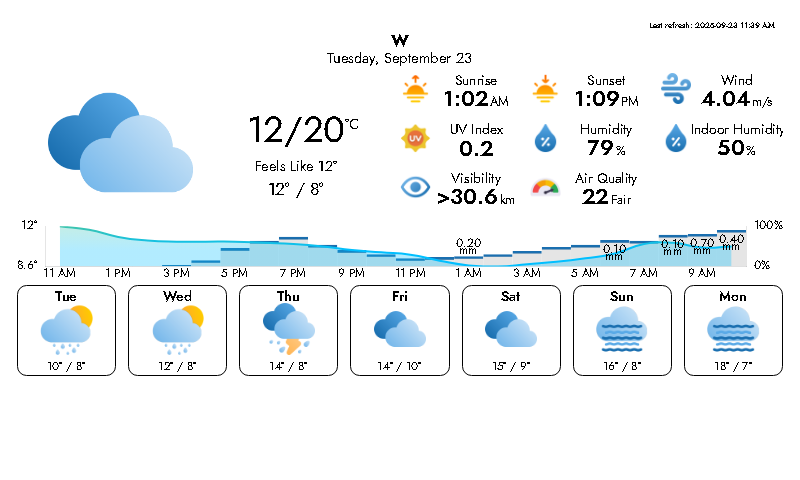
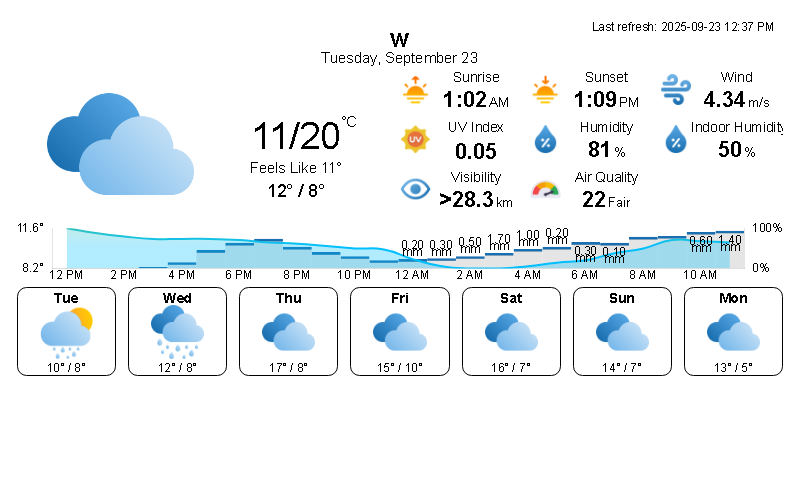
changed font to arial

diff --git a/src/plugins/weather_local/render/weather_local.html b/src/plugins/weather_local/render/weather_local.html
@@ -221,7 +221,7 @@
               minRotation: 0, // Prevent label rotation
               color: "{{ plugin_settings.textColor }}",
               font: {
-                family: 'Jost'
+                family: 'Arial'
               }
             },
             grid: {
@@ -238,7 +238,7 @@
               padding: 0,
               color: "{{ plugin_settings.textColor }}",
               font: {
-                family: 'Jost'
+                family: 'Arial'
               },
               autoSkip: false,
               callback: function(value, index, values) {
@@ -258,7 +258,7 @@
               padding: 0,
               color: "{{ plugin_settings.textColor }}",
               font: {
-                family: 'Jost'
+                family: 'Arial'
               },
               autoSkip: false,
               callback: function(value, index, values) {

diff --git a/src/plugins/weather_local/render/weather_local.css b/src/plugins/weather_local/render/weather_local.css
@@ -13,7 +13,7 @@
   gap: 1dvh;
   width: 100%;
   height: 100%;
-  font-family: "Jost"
+  font-family: "Arial"
 }
 
 .header {
@@ -29,9 +29,9 @@
   position: absolute;
   top: 0.5dvh;
   right: 0.5dvw;
-  font-size: min(2dvh, 2vw);
+  font-size: min(3dvh, 3vw);
   text-align: right;
-  font-weight: bold;
+  /*font-weight: bold;*/
   padding: 0.3dvh 0.5dvw;
 }
 
@@ -328,6 +328,6 @@
 
 @media (max-width: 250px) {
   .weather-dashboard {
-    font-family: "Dogica";
+    font-family: "Arial";
   }
 }

diff --git a/src/static/styles/main.css b/src/static/styles/main.css
@@ -6,7 +6,7 @@
 }
 
 body {
-    font-family: 'Poppins', sans-serif;
+    font-family: 'Arial', sans-serif;
     background-color: #f4f4f9;
     display: flex;
     justify-content: center;
